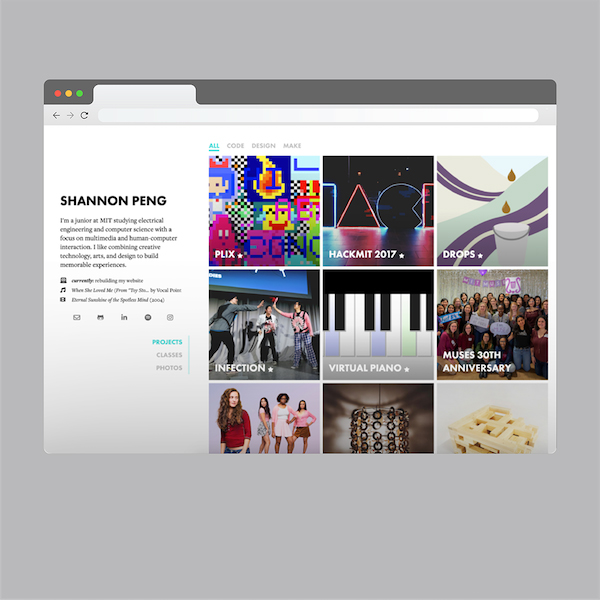
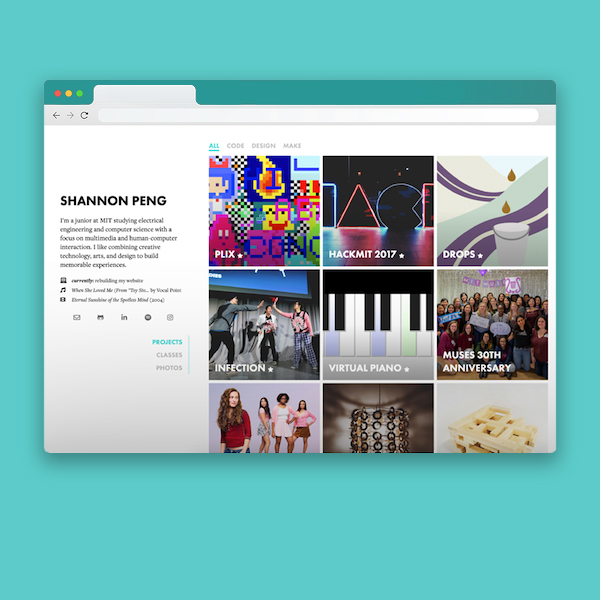
Make thumbnail and writeup edits

diff --git a/app/templates/index.html b/app/templates/index.html
@@ -96,7 +96,7 @@
 					</div>
 				</a>
 				<a href="{{ url_for('project', name=project.keyword) }}">
-					<div class="thumbnail" style="background-image:linear-gradient(180deg, rgba(255,255,255,0) 25%, rgba(0,0,0,0.3)), url('{{ project.thumbnail }}')"></div>
+					<div class="thumbnail" style="background-image:linear-gradient(180deg, rgba(255,255,255,0) 20%, rgba(0,0,0,0.2)), url('{{ project.thumbnail }}')"></div>
 					<div class="info">
 						<h2 class="title">{{ project.title }} {% if project.featured %}<i class="icon fas fa-star" title="featured"></i> {% endif %}</h2>
 						<p class="subtitle"><i>{{ project.subtitle }}</i></p>

diff --git a/app/content/projects/virtual-piano.md b/app/content/projects/virtual-piano.md
@@ -18,6 +18,10 @@ description: Real-time piano duets in the browser, powered by Socket.IO and Audi
 
 I created Virtual Piano at [Hack@Brown 2017](https://2017.hackatbrown.org/), drawing inspiration from the browser-based experiments in Google's [Chrome Music Lab](https://musiclab.chromeexperiments.com/).
 
+<a href="https://pengs-piano.herokuapp.com/" class="button">
+	Play Virtual Piano
+</a>
+
 ## The Idea
 
 The magic of the Internet is that it can connect people anywhere around the world, at any time. We're now capable of messaging and even video calling our friends online—what if we could also make music together?
@@ -25,10 +29,6 @@ The magic of the Internet is that it can connect people anywhere around the worl
 I envisioned a browser-based app that lets musicians start jamming together, no matter where they're located. Just log on, join a session, and then start making music as if you were in the same room.
 
 Over the 24-hour hackathon, I built a demo of a virtual piano that allows multiple people to play from separate devices. Try it with a friend!
-
-<a href="https://pengs-piano.herokuapp.com/" class="button">
-	Play Virtual Piano
-</a>
 
 ## How It Works
 

diff --git a/app/content/projects/personal-website.md b/app/content/projects/personal-website.md
@@ -1,6 +1,6 @@
 title: Personal Website
 keyword: personal-website
-subtitle: Building a new personal website from the ground up
+subtitle: Building a new portfolio site from the ground up
 date: 2019-01-12
 tags: [Software, Web Development]
 technologies: [Flask, Jinja2, Flatpages, Markdown, LESS, Last.fm API, Instagram API, jQuery, Heroku, Python, Javascript, HTML, CSS]
@@ -12,6 +12,6 @@ color: 5ccbc9
 link: /
 github: https://github.com/shannonpeng/shannonpeng
 caption: A screencap of my current website.
-description: Building a new personal website from the ground up
+description: Redesigning and building my portfolio site from the ground up
 
 This writeup is a work in progress 🙊 Come back soon to read more!

diff --git a/app/content/projects/njkeyclub.md b/app/content/projects/njkeyclub.md
@@ -1,6 +1,6 @@
 title: NJ Key Club 2016
 keyword: njkeyclub
-subtitle: Designing and publicizing a secret agent themed convention
+subtitle: Designing a secret agent themed convention
 date: 2016-04-03
 context: NJ Key Club District Board
 tags: [Branding, Event Theming, Graphic Design, Web Design, Video Production, Visual Effects, Social Media]
